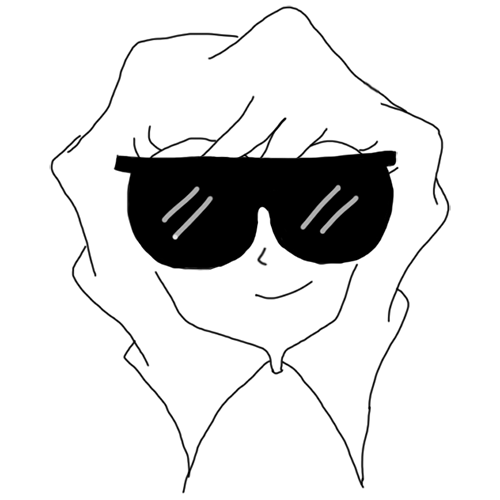
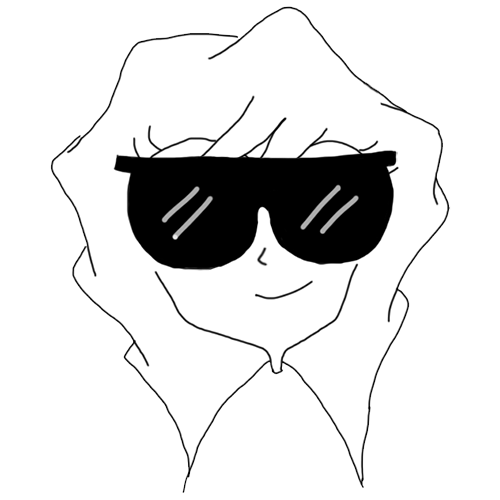
Switch display picture based on theme

diff --git a/src/styles/global.scss b/src/styles/global.scss
@@ -8,6 +8,7 @@
     --link-color: purple;
     --border-color: rgba(255, 107, 22, 0.3);
     --squiggly-color: black;
+    --display-picture: var(--display-picture-light);
 }
 
 [data-theme="dark"] {
@@ -20,6 +21,7 @@
     --link-color: #bb86fc;
     --border-color: rgba(224, 108, 0, 0.4);
     --squiggly-color: #e0e0e0;
+    --display-picture: var(--display-picture-dark);
 }
 
 * {
@@ -106,9 +108,12 @@ header a .tag {
             border-radius: 50%;
             border: 1px solid var(--text-color);
 
-            padding: 16px;
-
             width: 150px;
+            height: 150px;
+
+            background-image: var(--display-picture);
+            background-size: cover;
+            background-position: center;
         }
 
         .social {
